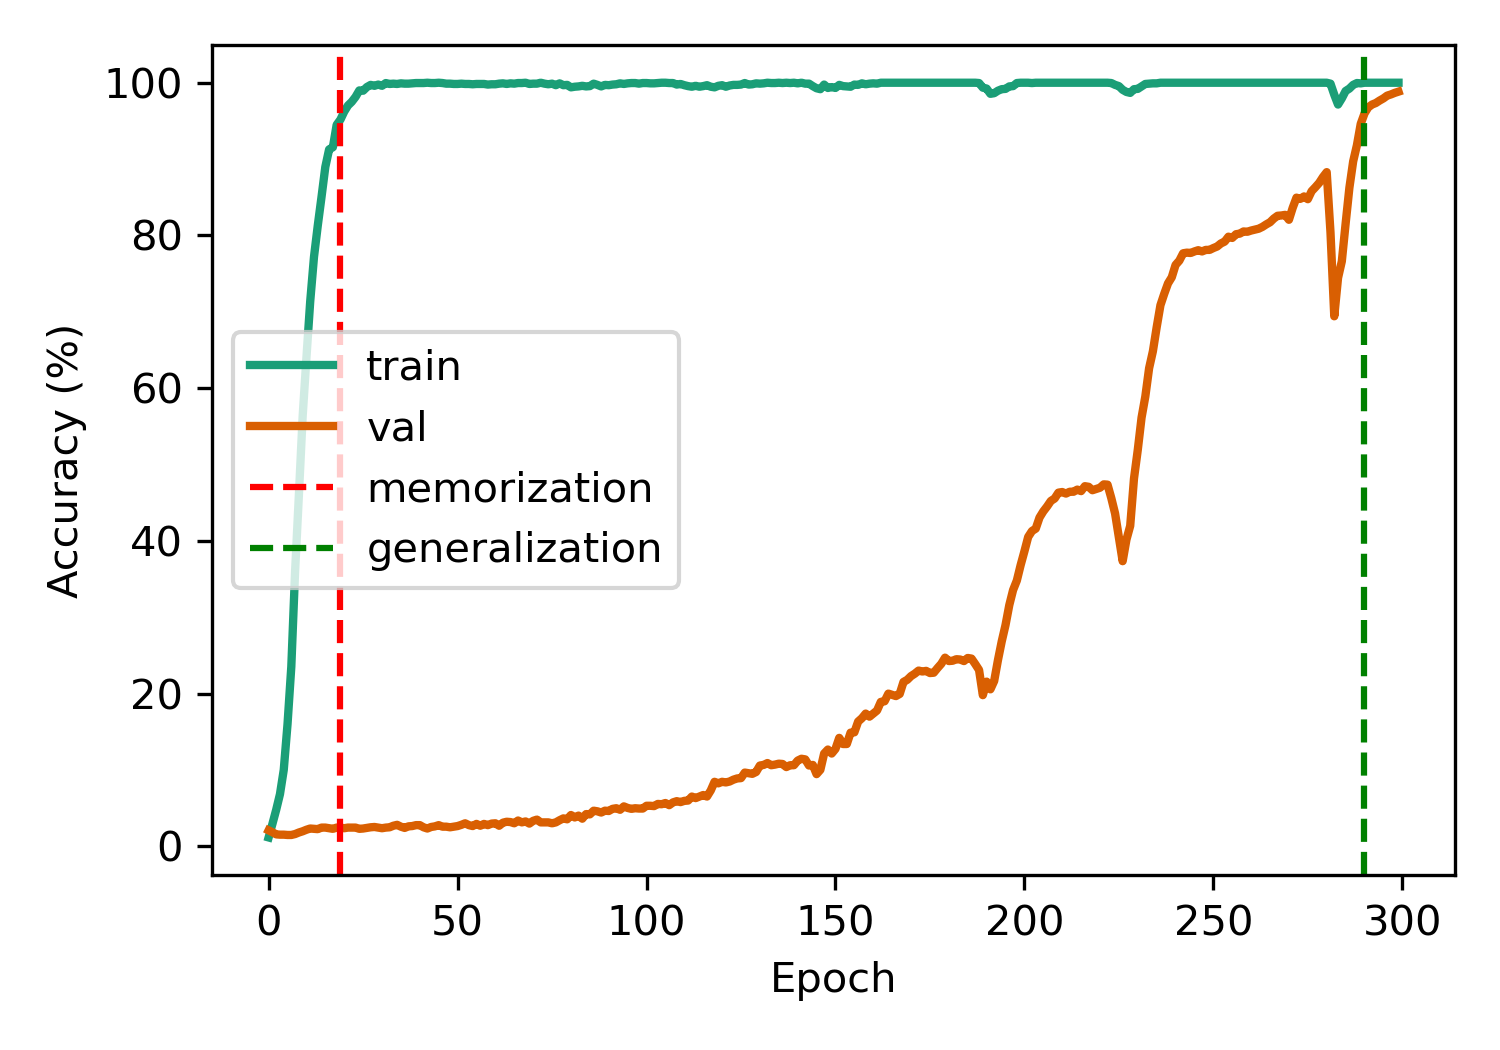
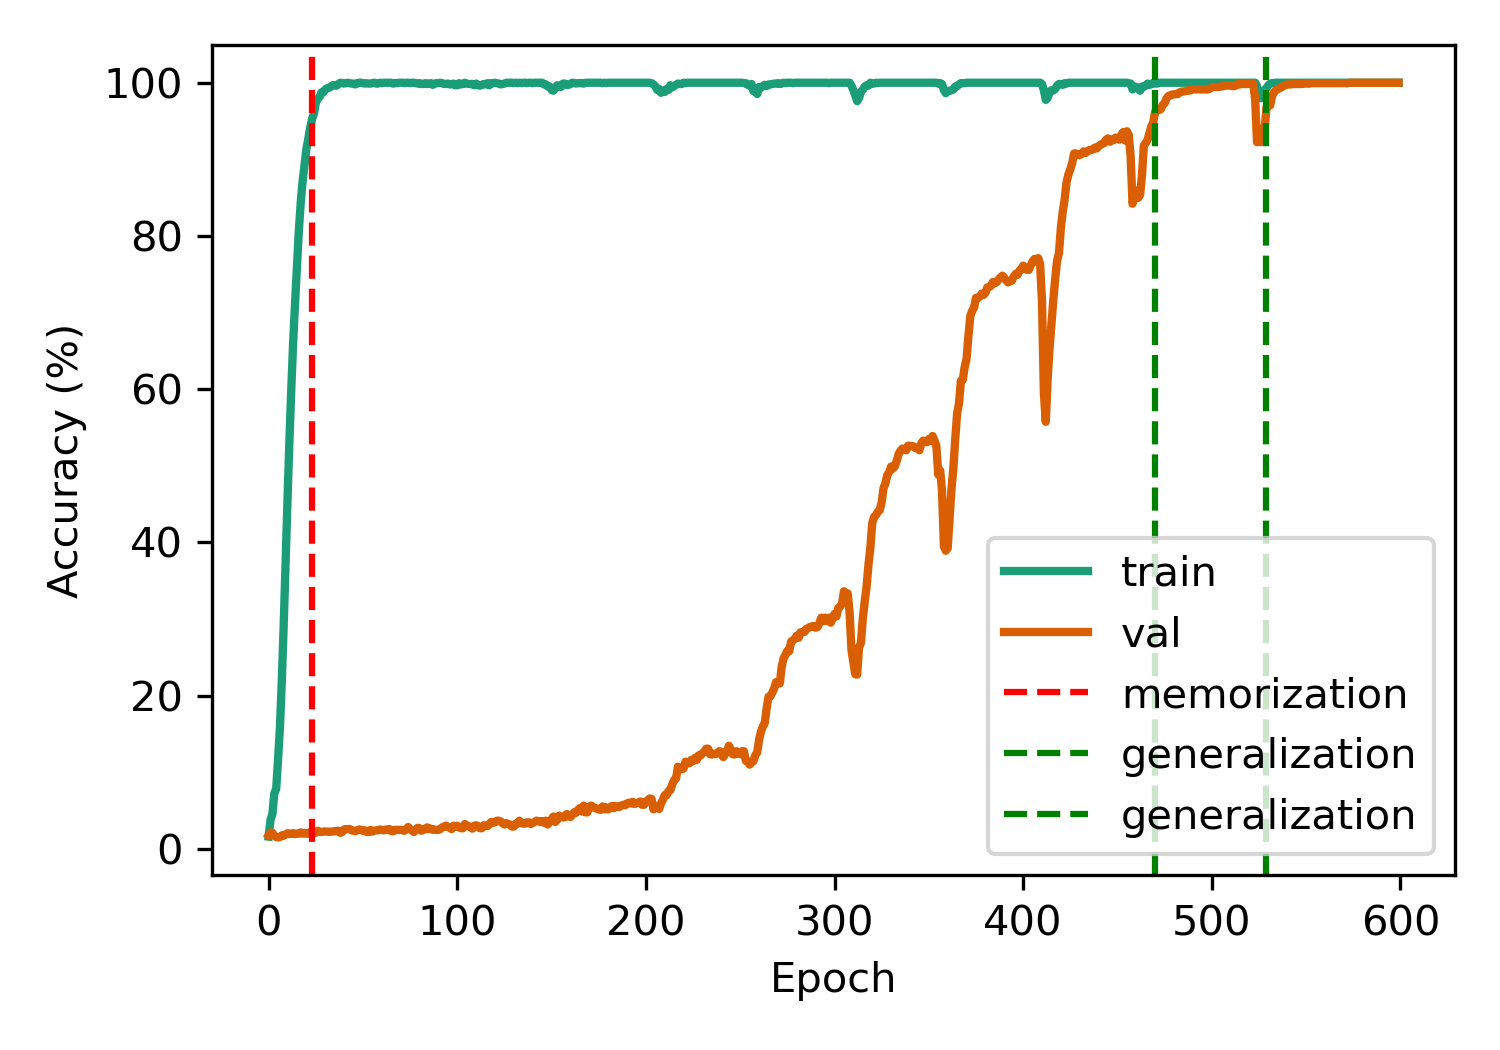
Minor changes

diff --git a/main.py b/main.py
@@ -14,14 +14,14 @@ from data import grokking_data
 
 parser = argparse.ArgumentParser(add_help=True)
 # data args
-parser.add_argument('--p', type=int, default=71, help='prime number')
+parser.add_argument('--p', type=int, default=61, help='prime number')
 parser.add_argument('--op', type=str, default='/',
                     help='operation', choices=['*', '/', '+', '-'])
 parser.add_argument('--train-fraction', type=float,
                     default=0.5, help='train fraction')
 # model args
 parser.add_argument('--depth', type=int, default=2, help='depth')
-parser.add_argument('--dim', type=int, default=128, help='dimension')
+parser.add_argument('--dim', type=int, default=100, help='dimension')
 parser.add_argument('--heads', type=int, default=1, help='heads')
 parser.add_argument('--dropout', type=float, default=0.2, help='dropout')
 # optimizer args
@@ -35,7 +35,7 @@ parser.add_argument('--warmup', type=int, default=10, help='warmup steps')
 parser.add_argument('-b', '--batch_size', type=int,
                     default=512, help='batch size')
 parser.add_argument('-e', '--epochs', type=int,
-                    default=300, help='number of epochs')
+                    default=600, help='number of epochs')
 # misc args
 parser.add_argument('--seed', type=int, default=random.randint(0,1000), help='random seed')
 parser.add_argument('--cpu', action='store_true', help='use cpu only')
